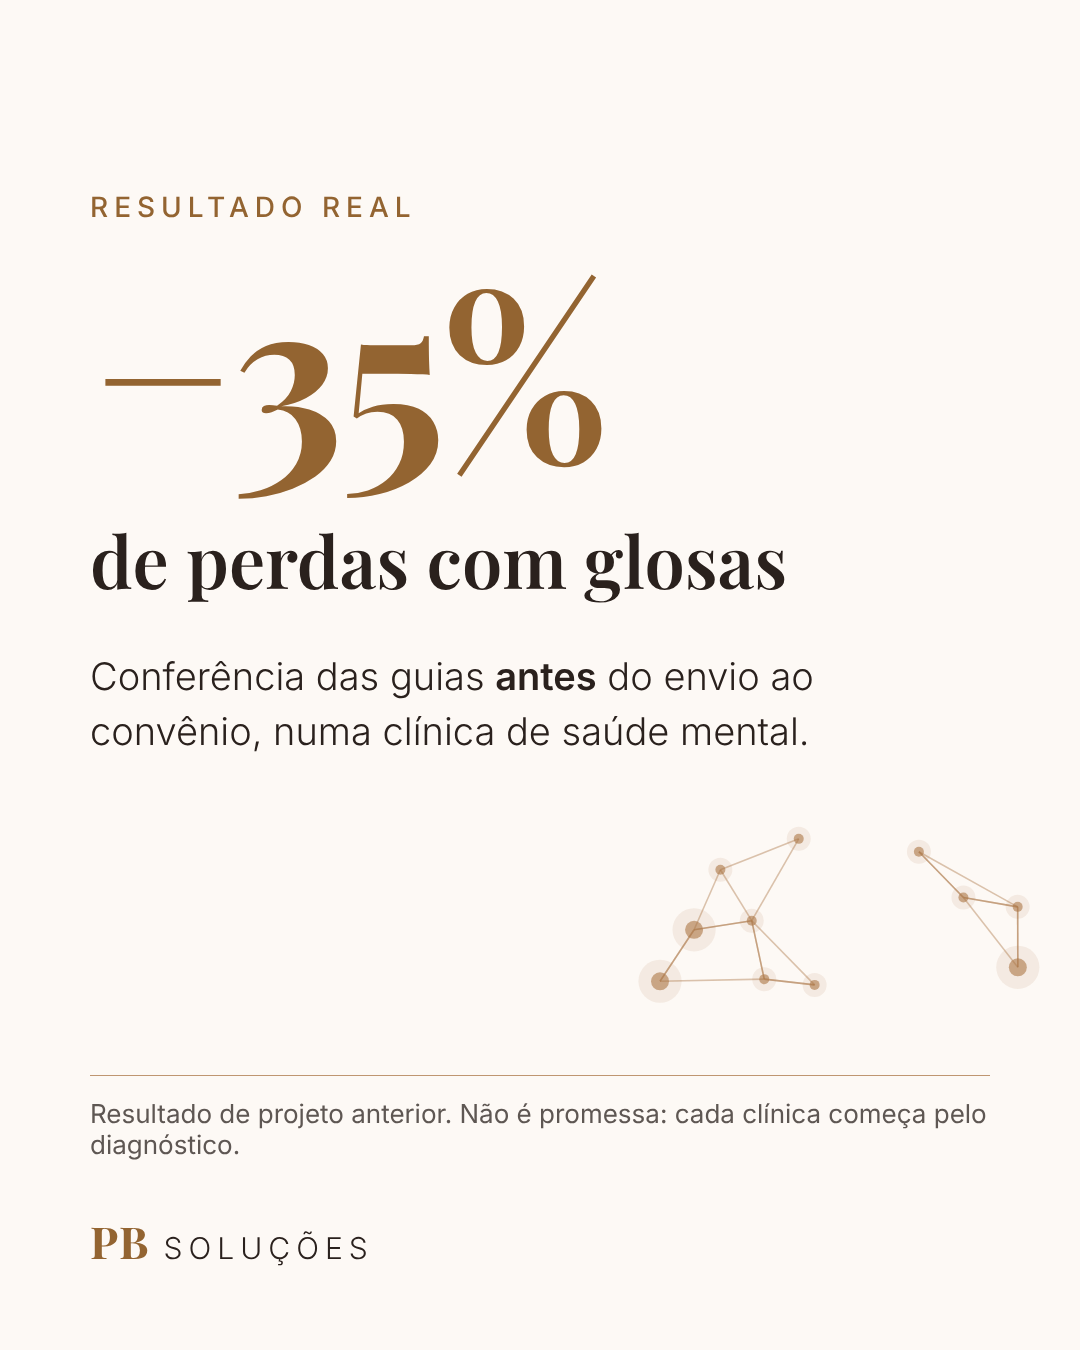
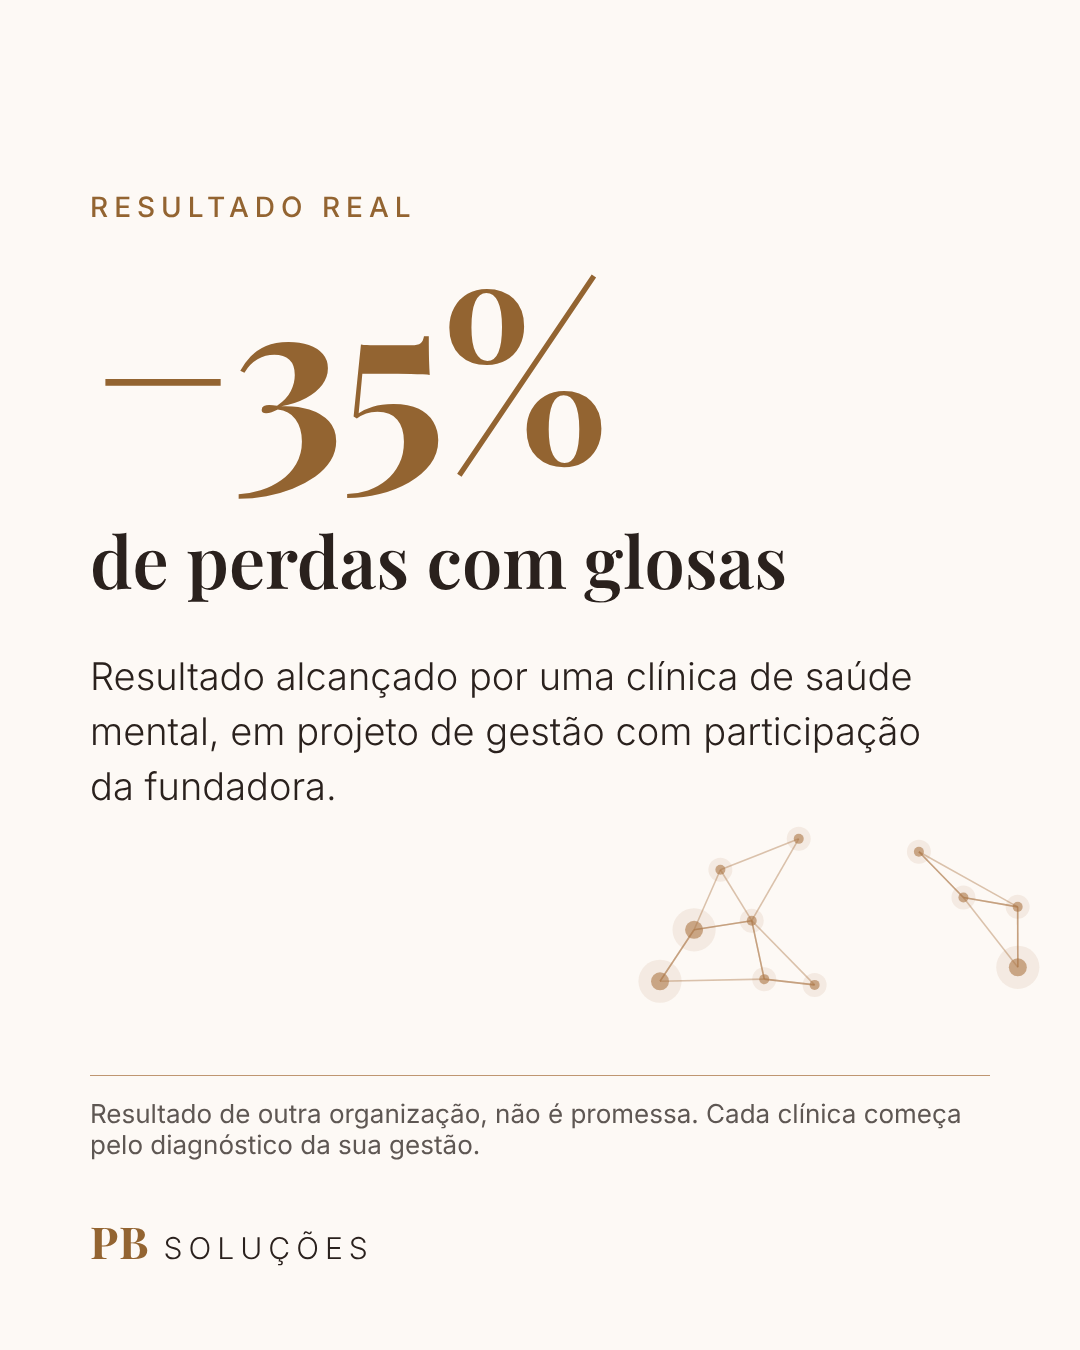
Não assumir responsabilidades de terceiros + correções 1 e 2
- Resultados atribuídos às organizações, com participação da fundadora
- Post do LinkedIn sem afirmar que toda a carreira foi em saúde
- Post de glosas descreve método genérico, não um projeto imaginado
- Site: agentes 'configurados para', SAMU como orientação, clínica
  como controladora dos dados e responsável pelo atendimento
- Oferta: ferramentas de terceiros contratadas pela clínica e tabela
  de limites de responsabilidade para o contrato
- Regra adicionada ao CLAUDE.md e aos agentes de conteúdo

Claude-Session: https://claude.ai/code/session_01LoDkQVr5SMC612GAkfrzaB

Changed region(s): [[0.0917, 0.4667, 0.8556, 0.5911], [0.0917, 0.8089, 0.9167, 0.8711]]

diff --git a/docs/index.html b/docs/index.html
@@ -141,6 +141,7 @@ footer a{color:var(--bc)}
   <div class="wrap">
     <div class="eyebrow">Os agentes</div>
     <h2 id="t-agentes">Quatro agentes de IA para os processos que mais pesam</h2>
+    <p class="intro">Implantados sob medida depois do diagnóstico. A decisão final sobre cada paciente, guia ou mensagem é sempre da equipe da clínica.</p>
     <div class="grid g4">
       <div class="card agente"><span class="tag">Agenda</span><h3>Agendamento e confirmação</h3><p>Agenda pelo WhatsApp, confirma na véspera, remarca e oferece o horário vago para a lista de espera.</p></div>
       <div class="card agente"><span class="tag">Relacionamento</span><h3>Captação e retorno</h3><p>Lembra o paciente do retorno indicado e reativa quem aceitou receber mensagens.</p></div>
@@ -153,14 +154,14 @@ footer a{color:var(--bc)}
 <section id="resultados" class="escuro" aria-labelledby="t-res">
   <div class="wrap">
     <div class="eyebrow">Resultados de projetos anteriores</div>
-    <h2 id="t-res">O método já foi testado em saúde</h2>
+    <h2 id="t-res">Projetos em saúde dos quais a fundadora participou</h2>
     <div class="grid g4 res">
       <div><div class="num">+22%</div><p>de ocupação numa clínica de saúde mental</p></div>
       <div><div class="num">−35%</div><p>de perdas com glosas na mesma clínica</p></div>
       <div><div class="num">68→82</div><p>de NPS num grupo de serviços médicos</p></div>
       <div><div class="num">+30%</div><p>na base de clientes do mesmo grupo</p></div>
     </div>
-    <p class="aviso">Resultados de projetos de consultoria realizados pela fundadora. Não são promessa: cada clínica começa pelo diagnóstico do seu próprio cenário.</p>
+    <p class="aviso">Resultados alcançados pelas equipes dessas organizações, em projetos com participação da fundadora. Não são promessa: cada clínica começa pelo diagnóstico da sua própria gestão.</p>
   </div>
 </section>
 
@@ -182,10 +183,10 @@ footer a{color:var(--bc)}
         <h2>Segurança vem antes de tudo</h2>
         <ul class="seg">
           <li>Os agentes se apresentam como IA e passam para a sua equipe quando o paciente pede</li>
-          <li>Nunca dão diagnóstico, orientação de tratamento ou interpretação de exame</li>
-          <li>Sinais de emergência são encaminhados ao SAMU 192</li>
-          <li>Dados tratados conforme a LGPD, com contrato de tratamento de dados</li>
-          <li>Mensagens aprovadas pelo responsável técnico da clínica</li>
+          <li>São configurados para não dar diagnóstico, orientação de tratamento ou interpretação de exame</li>
+          <li>Diante de sinais de emergência, orientam o paciente a ligar para o SAMU 192 e avisam a clínica</li>
+          <li>A clínica é a controladora dos dados (LGPD); a PB Soluções atua como operadora, nos limites do contrato</li>
+          <li>As mensagens são aprovadas pelo responsável técnico da clínica, e o atendimento em saúde é sempre responsabilidade da clínica e dos seus profissionais</li>
         </ul>
       </div>
     </div>
@@ -198,8 +199,8 @@ footer a{color:var(--bc)}
     <div>
       <div class="eyebrow">Quem está por trás</div>
       <h2 id="t-sobre">Priscila Blandy Dias</h2>
-      <p class="intro">Fundadora da PB Soluções, com 19 anos de experiência em gestão e projetos de destaque na saúde. Antes de qualquer tecnologia, Priscila olha o processo: é daí que vieram os resultados acima.</p>
-      <div class="cred"><span>19 anos em gestão</span><span>2 MBAs</span><span>Certificação PMO</span><span>Green Belt (DMAIC)</span><span>Marketing B2B</span></div>
+      <p class="intro">Fundadora da PB Soluções, com 19 anos de experiência em gestão e participação em projetos de destaque na saúde. Antes de qualquer tecnologia, Priscila olha o processo.</p>
+      <div class="cred"><span>19 anos em gestão</span><span>2 MBAs</span><span>Certificação PMO</span><span>Green Belt (melhoria de processos)</span><span>Marketing B2B</span></div>
     </div>
   </div>
 </section>
@@ -209,7 +210,7 @@ footer a{color:var(--bc)}
     <div class="eyebrow">Perguntas frequentes</div>
     <h2 id="t-faq">Dúvidas comuns</h2>
     <details><summary>A IA vai atender meus pacientes sozinha?</summary><p>Ela atende as tarefas combinadas (agendar, confirmar, lembrar, pedir avaliação) e passa para a sua equipe tudo o que foge disso, ou quando o paciente pede para falar com uma pessoa.</p></details>
-    <details><summary>Preciso trocar meu sistema de agenda?</summary><p>Não necessariamente. No diagnóstico avaliamos o sistema que você já usa e a melhor forma de integrar.</p></details>
+    <details><summary>Preciso trocar meu sistema de agenda?</summary><p>Não necessariamente. No diagnóstico avaliamos o sistema que você já usa. A integração depende do que o fornecedor do sistema permite.</p></details>
     <details><summary>Quanto custa?</summary><p>O modelo é uma taxa de implantação mais uma mensalidade de operação e acompanhamento. O valor depende dos agentes e do porte da clínica e é apresentado depois do diagnóstico.</p></details>
     <details><summary>E a LGPD?</summary><p>Dados de saúde são dados sensíveis. Coletamos o mínimo necessário, formalizamos o tratamento em contrato e a clínica continua sendo a controladora dos dados.</p></details>
   </div>

diff --git a/pecas/fonte/post-04-glosas.html b/pecas/fonte/post-04-glosas.html
@@ -9,7 +9,7 @@ p{font-size:38px;line-height:1.45;font-weight:300;margin-top:50px;max-width:860p
 <div class="c"><div class="eyebrow">Resultado real</div>
 <div class="num">−35%</div>
 <h1>de perdas com glosas</h1>
-<p>Conferência das guias <b style="font-weight:600">antes</b> do envio ao convênio, numa clínica de saúde mental.</p></div>
-<div class="nota">Resultado de projeto anterior. Não é promessa: cada clínica começa pelo diagnóstico.</div>
+<p>Resultado alcançado por uma clínica de saúde mental, em projeto de gestão com participação da fundadora.</p></div>
+<div class="nota">Resultado de outra organização, não é promessa. Cada clínica começa pelo diagnóstico da sua gestão.</div>
 <div class="marca"><span class="pb">PB</span><span class="sol">Soluções</span></div>
 <script src="rede.js"></script></body></html>

diff --git a/redes/legendas-lancamento.md b/redes/legendas-lancamento.md
@@ -1,6 +1,6 @@
 # Legendas: lançamento (prontas para colar)
 
-> Números conferidos em `conhecimento/empresa.md`. Clientes citados **sem nome** até você confirmar a autorização.
+> Números conferidos em `conhecimento/empresa.md`. 🔒 Nunca citar nomes de clientes. Os resultados são **dos clientes**, em projetos com participação da Priscila; a PB Soluções não os assume como seus.
 
 ---
 
@@ -29,9 +29,9 @@ Se você tem uma clínica ou casa de saúde e quer entender onde está perdendo 
 ```
 Mudei o nome da minha empresa. E o motivo diz mais do que o nome.
 
-Durante 19 anos trabalhei com gestão em saúde. Em projetos anteriores, ajudei uma clínica de saúde mental a aumentar a ocupação em 22% e a reduzir em 35% as perdas com glosas. Num grupo de serviços médicos, vi o NPS sair de 68 para 82.
+Em 19 anos de gestão, os projetos em saúde foram os que mais me marcaram. Participei de projetos em que uma clínica de saúde mental alcançou +22% de ocupação e −35% de perdas com glosas, e em que um grupo de serviços médicos viu o NPS sair de 68 para 82. O mérito é das equipes dessas organizações.
 
-Em todos eles, a virada veio do processo, não da ferramenta.
+O que aprendi com eles: a virada vem do processo, não da ferramenta.
 
 Hoje existe uma ferramenta nova, os agentes de IA, que pode executar esses processos 24 horas por dia. Mas IA em cima de processo desorganizado só acelera o problema.
 
@@ -89,17 +89,17 @@ Comenta "AGENDA" que eu te mando como funciona.
 ```
 −35% de perdas com glosas.
 
-Esse foi o resultado de um projeto anterior numa clínica de saúde mental.
+Esse foi o resultado alcançado por uma clínica de saúde mental, num projeto de gestão do qual participei.
 
-O que fizemos não foi mágico:
-→ mapeamos os motivos de glosa dos últimos meses
-→ descobrimos que a maior parte vinha de erro de preenchimento e falta de autorização
-→ criamos uma conferência ANTES do envio ao convênio
+Glosa raramente é azar. Um caminho comum para reduzi-la:
+→ olhar os motivos de glosa dos últimos meses
+→ separar o que é erro de processo (preenchimento, autorização, prazo)
+→ conferir as guias ANTES do envio ao convênio
 
-Hoje essa conferência pode ser feita por um agente de IA, que aponta os riscos guia por guia, e a equipe decide.
+Hoje essa conferência pode ter o apoio de um agente de IA, que aponta os riscos guia por guia. A decisão e o envio continuam com a equipe de faturamento da clínica.
 
-Resultado de projeto anterior não é promessa. Mas é um bom sinal de onde olhar primeiro.
+Resultado de outra organização não é promessa. Mas mostra onde vale olhar primeiro.
 
 #faturamentohospitalar #glosas #gestaoemsaude #clinicas #pbsolucoes
 ```
-> ✏ Priscila: confira se a descrição do que foi feito bate com o que realmente aconteceu no projeto. Escrevi um processo genérico de prevenção de glosas; ajuste para a sua história real.
+> ✅ Reescrito: o texto descreve um **método genérico** ("um caminho comum"), e não o que aconteceu no projeto. O resultado é atribuído à clínica.

diff --git a/comercial/oferta-saude.md b/comercial/oferta-saude.md
@@ -10,7 +10,20 @@
 | **Preço** | ✏ por agente ou por pacote | ✏ por agente ou por pacote |
 | **Prazo de implantação** | ✏ (o agente 4, de glosas, é o mais longo) | Contrato mínimo: ✏ meses |
 
-**Custos que a clínica paga direto ou que você repassa (decidir):** mensagens da WhatsApp Business Platform (Meta), uso do Claude (Anthropic), n8n. ✏ Decida se ficam embutidos na mensalidade ou se são cobrados à parte.
+**Ferramentas de terceiros: contratadas diretamente pela clínica**, em nome dela: linha oficial do WhatsApp (Meta), conta da IA (ex.: Anthropic), sistema de agenda e de faturamento. A PB Soluções configura e acompanha, mas **não revende nem responde** pela disponibilidade, pelas regras ou pelos preços dessas empresas.
+
+## Limites de responsabilidade (vai para o contrato)
+
+| É responsabilidade da **clínica** | É responsabilidade da **PB Soluções** |
+|---|---|
+| Atendimento em saúde e decisões clínicas | Diagnóstico de gestão e desenho dos processos |
+| Controladora dos dados dos pacientes (LGPD) | Operadora: tratar dados só conforme o contrato e as instruções da clínica |
+| Aprovar as mensagens (responsável técnico) | Configurar os agentes com as mensagens aprovadas |
+| Decidir e enviar guias ao convênio | Apontar riscos de glosa (o agente sugere, não decide) |
+| Contratar e pagar as ferramentas de terceiros | Configurar, testar e monitorar, como contratado |
+| Responder aos pacientes que forem escalonados | Ajustar os agentes e entregar o relatório mensal |
+
+> ⚖ Peça a um advogado para transformar esta tabela em cláusulas (prestação de serviço + DPA + limitação de responsabilidade).
 
 ## Pacotes sugeridos (nomes para você validar)
 
@@ -27,8 +40,8 @@
 - [ ] **Acordo de tratamento de dados (DPA)**: clínica = controladora, PB Soluções = operadora (veja `padroes/saude-compliance.md`)
 - [ ] Mensagens aprovadas por escrito pelo responsável técnico
 - [ ] Testes de segurança (`produtos/saude/testes-seguranca.md`) aprovados
-- [ ] Linha de WhatsApp Business API da clínica ativa
+- [ ] Linha de WhatsApp Business API **contratada pela clínica**, em nome dela, e ativa
 
 ## Argumento de venda (tom PB Soluções: diagnóstico antes de prescrição)
 
-> "Antes de colocar qualquer robô, eu olho o seu processo. Em projetos anteriores em saúde, alcançamos +22% de ocupação e −35% de glosas, mas o número da sua clínica a gente descobre medindo o mês zero."
+> "Antes de colocar qualquer robô, eu olho o seu processo. Já participei de projetos em saúde em que a organização chegou a +22% de ocupação e −35% de glosas. O mérito foi da equipe deles; o número da sua clínica a gente descobre medindo o mês zero."

diff --git a/redes/perfis.md b/redes/perfis.md
@@ -58,9 +58,9 @@ A PB Soluções ajuda clínicas e casas de saúde privadas de pequeno e médio p
 
 Nosso método começa sempre pelo diagnóstico do processo: tecnologia em cima de processo desorganizado só acelera o problema.
 
-Em projetos anteriores em saúde, alcançamos +22% de ocupação, −35% de perdas com glosas e NPS de 68 para 82.
+A fundadora participou de projetos em saúde em que as organizações alcançaram +22% de ocupação, −35% de perdas com glosas e NPS de 68 para 82.
 
-Todos os agentes seguem a LGPD e as regras dos conselhos profissionais, nunca dão orientação clínica e passam a conversa para a equipe sempre que necessário.
+Os agentes são configurados para não dar orientação clínica e para passar a conversa à equipe sempre que necessário. A clínica mantém a responsabilidade pelo atendimento em saúde e pelos dados dos pacientes; a PB Soluções atua nos limites do contrato.
 
 Fundada por Priscila Blandy Dias: 19 anos em gestão, duas MBAs, PMO e Green Belt.
 ```

diff --git a/CLAUDE.md b/CLAUDE.md
@@ -15,3 +15,4 @@
 - **Foco do negócio:** vender agentes de IA para a **saúde privada de pequeno e médio porte** (clínicas médicas, saúde mental, odontologia, hospitais pequenos), no modelo implantação + mensalidade. Catálogo em `produtos/saude/`.
 - Agentes de saúde: **nunca** diagnosticam, orientam tratamento ou interpretam exames; emergência → SAMU 192; crise em saúde mental → CVV 188. Regras em `padroes/saude-compliance.md`. Nenhum agente vai ao ar sem passar em `produtos/saude/testes-seguranca.md`.
 - Dados de clínicas e pacientes **nunca** entram neste repositório.
+- ⚖ **Não assumir responsabilidades de terceiros.** Resultados são das organizações clientes ("participei de projetos em que..."). Atendimento em saúde, dados de pacientes (controladora), envio de guias e ferramentas de terceiros (Meta, Anthropic, sistemas) são responsabilidade da clínica ou do fornecedor. A PB Soluções responde só pelo que está no contrato. Tabela em `comercial/oferta-saude.md`.

diff --git a/produtos/saude/README.md b/produtos/saude/README.md
@@ -18,7 +18,7 @@
 | 3 | [**Satisfação (NPS)**](agentes/03-satisfacao-nps.md) | Pergunta a nota após a consulta e encaminha quem ficou insatisfeito | Grupo de serviços médicos: **NPS de 68 para 82** | Paciente |
 | 4 | [**Faturamento / glosas**](agentes/04-faturamento-glosas.md) | Confere guias de convênio antes do envio e aponta erros | Clínica de saúde mental: **−35% de glosas**; casa de saúde: **+12% de rentabilidade** | Equipe da clínica |
 
-> ⚠ Os números acima são **resultados de projetos anteriores da Priscila**, não promessa de resultado do agente. Na venda, use: "em projetos anteriores, alcançamos..."
+> ⚠ Os números acima são **resultados de projetos anteriores da Priscila**, não promessa de resultado do agente. Na venda, use: "participei de projetos em que a organização alcançou..." (o resultado é do cliente, não da PB Soluções).
 
 ## Segmentos atendidos
 

diff --git a/.claude/agents/desenvolvedor-site.md b/.claude/agents/desenvolvedor-site.md
@@ -14,8 +14,11 @@ Você é o **Desenvolvedor do site da PB Soluções**.
 
 ## Conteúdo
 - Textos vêm do agente **redator-copy** e seguem `marca/posicionamento.md`.
-- Nenhum número fora de `conhecimento/empresa.md`. Nenhum nome de cliente sem autorização.
+- Nenhum número fora de `conhecimento/empresa.md`. Nenhum nome de cliente, nunca.
 - Rodapé: aviso de privacidade (LGPD) e contatos oficiais.
 
 ## Explique para a Priscila
 Toda mudança vem com 1 frase simples em português do que mudou e como ver.
+
+## Responsabilidade
+Nunca assuma em nome da PB Soluções o que é de terceiros: resultados são das organizações ("participei de projetos em que..."); atendimento em saúde e dados dos pacientes são da clínica; ferramentas de terceiros são dos fornecedores. Use "configurados para", e não "garantimos" ou "nunca vão".

diff --git a/.claude/agents/estrategista-marca.md b/.claude/agents/estrategista-marca.md
@@ -19,3 +19,6 @@ Você é o **Estrategista de Marca da PB Soluções** (empresa de Priscila Bland
 
 ## Nunca
 Inventar números, depoimentos ou clientes · usar "solução inovadora", "sinergia", "disruptivo" · usar azul-marinho/dourado · citar nome de cliente (atual ou antigo).
+
+## Responsabilidade
+Nunca assuma em nome da PB Soluções o que é de terceiros: resultados são das organizações ("participei de projetos em que..."); atendimento em saúde e dados dos pacientes são da clínica; ferramentas de terceiros são dos fornecedores. Use "configurados para", e não "garantimos" ou "nunca vão".

diff --git a/conhecimento/empresa.md b/conhecimento/empresa.md
@@ -20,7 +20,7 @@
 
 ## Resultados anteriores (cases)
 
-> O agente pode citar estes resultados como **trabalhos já feitos**, nunca como promessa.
+> O agente pode citar estes resultados como **alcançados pelas organizações em projetos com participação da Priscila**: nunca como mérito exclusivo da PB Soluções e nunca como promessa.
 > 🔒 **Regra: nunca citar o nome de nenhum cliente** (atual ou da época da PB Serviços). Use apenas a descrição do tipo de organização. A PB Soluções leva as **estruturas e metodologias**, adaptadas a cada segmento.
 
 | Tipo de organização | Resultado |

diff --git a/.claude/agents/redator-copy.md b/.claude/agents/redator-copy.md
@@ -21,3 +21,6 @@ Para cada peça: **texto final** + **2 variações de gancho** + a anotação de
 
 ## Nunca
 Prometer resultado ("garantimos", "vai dobrar") · jargão vazio · inventar dado, depoimento ou estatística de mercado · conselho médico.
+
+## Responsabilidade
+Nunca assuma em nome da PB Soluções o que é de terceiros: resultados são das organizações ("participei de projetos em que..."); atendimento em saúde e dados dos pacientes são da clínica; ferramentas de terceiros são dos fornecedores. Use "configurados para", e não "garantimos" ou "nunca vão".
